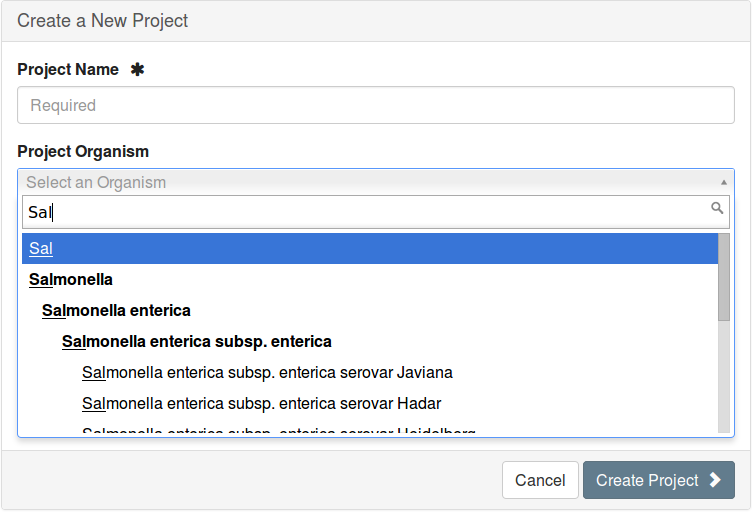
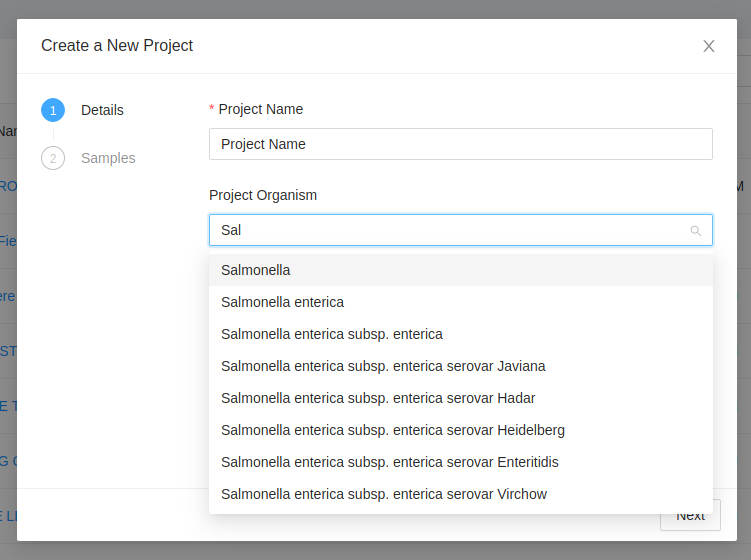
Updatd user docs

Changed region(s): [[0.0, 0.0, 1.0, 1.0], [0.2756, 0.1875, 0.9494, 0.2812]]

diff --git a/doc/_includes/tutorials/common/creating-a-project.md b/doc/_includes/tutorials/common/creating-a-project.md
@@ -18,14 +18,20 @@ If you choose to set a project organism, click on the "Select an Organism" drop-
 
 The organism names are derived from the [NCBI taxonomy database](http://www.ncbi.nlm.nih.gov/taxonomy).
 
-To lock sample modification in the new project, check the "Lock sample modification" box. This setting will only allow the sample owner to edit any sample data.
+Clicking the "Next" buttons allows you to select samples that have been added to your cart to the project.
+
+If there are no samples currently in the cart a message will be displayed:
+
+![Samples]({{ site.baseurl }}/images/tutorials/common/projects/create-project-no-samples.png)
+
+When samples are in the cart, only samples that you have full permissions on can be added to a new project.  
+
+![Samples]({{ site.baseurl }}/images/tutorials/common/projects/create-project-samples.png)
+
+To prevent samples from being modified or copied withinthe new project, check the "Prevent modification and copying of these samples" box. This setting will only allow the sample owner to edit any sample data.
 
 When you've finished entering the details for your new project, click on the "Create Project" button. You will be redirected to the projects list.
 
 IRIDA will automatically generate a numeric project identifier for your project. The project identifier is used by external tools for uploading sequencing data to IRIDA. The project identifier can be found in the ["Project Details" panel]({{ site.baseurl }}/user/user/project/index.html#viewing-project-details), or in the [projects list]({{ site.baseurl }}/user/user/project/index.html#viewing-existing-projects).
-
-#### Creating a project from cart
-
-You can create a project with samples already added to the project by using the cart.  Continue creating the project details as described above, but select the checkbox **Add samples in cart to project**.  If this checkbox is enabled any samples in the cart will be automatically added to this project.  If there are any samples which you cannot add to the project, a warning will be displayed below.
 
 ![Create project cart warning]({{ site.baseurl }}/images/tutorials/common/projects/create-project-cart-warning.png)
